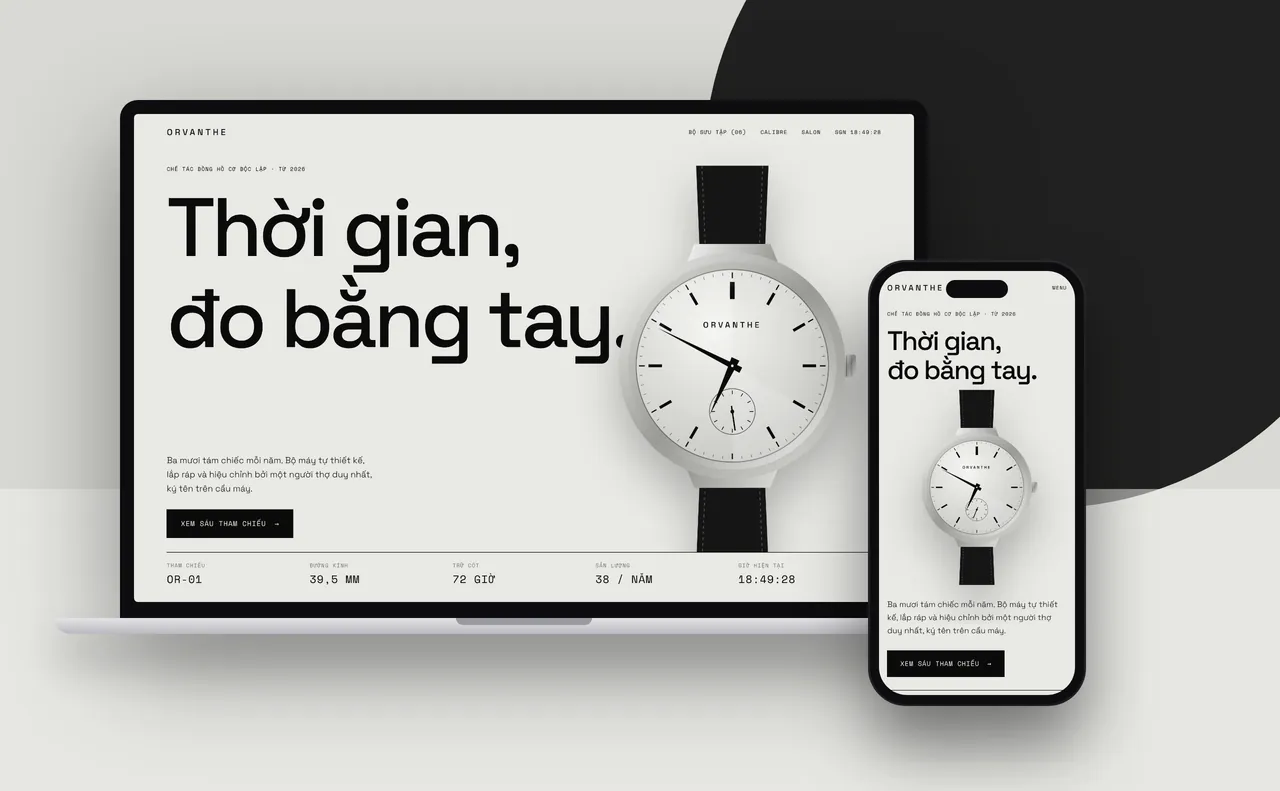
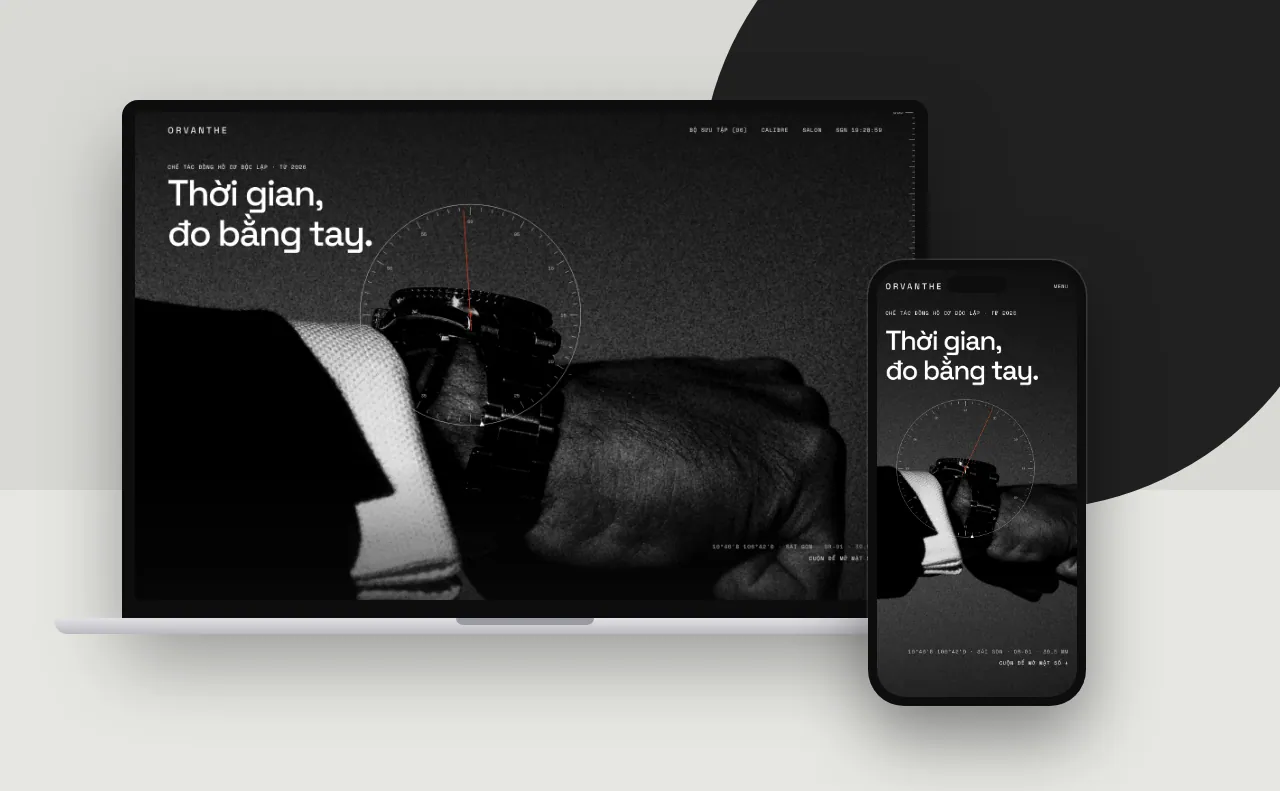
Demo Orvanthe: hero kim giây giờ thật, mặt nạ quét tròn, lookbook kính lúp
Claude-Session: https://claude.ai/code/session_012QLWn7rvRysGvRwdv6upwG

diff --git a/demos/lux-orvanthe.html b/demos/lux-orvanthe.html
@@ -43,12 +43,6 @@ input,select,textarea{font:inherit;color:inherit;border-radius:0}
 .toast.on{opacity:1;transform:translate(-50%,0)}
 .ph{position:relative;overflow:hidden;margin:0;background:var(--bg2)}
 .ph img{display:block;width:100%;height:100%;object-fit:cover;transition:transform 1796ms var(--ease),filter 1110ms var(--ease)}
-.pe{position:relative;overflow:hidden}.pe>.ph{position:absolute;inset:0}.pe>.ph img{position:absolute;left:0;top:-9%;height:118%}
-.pg-g{display:grid;grid-template-columns:repeat(4,1fr);grid-auto-rows:clamp(160px,19vw,300px);gap:10px}
-.pg-g .ph:first-child{grid-column:span 2;grid-row:span 2}.pg-4 .ph:nth-child(2){grid-column:span 2}
-.pg-g .ph:hover img{transform:scale(1.05)}
-.pg-g figcaption{position:absolute;left:0;right:0;bottom:0;padding:26px 16px 10px;font-size:13px;line-height:1.38;pointer-events:none}
-@media(max-width:700px){.pg-g{grid-template-columns:1fr 1fr;grid-auto-rows:clamp(150px,52vw,260px);gap:6px}.pg-g .ph:first-child{grid-row:span 1}.pg-4 .ph:nth-child(2){grid-column:span 1}.pg-4 .ph:last-child{grid-column:span 2}}
 .back{position:fixed;left:16px;bottom:16px;z-index:60;min-height:42px;padding:0 16px;display:flex;align-items:center;font-size:13px;letter-spacing:.04em}
 .fm{min-height:26px;font-size:13px}
 @media (prefers-reduced-motion:reduce){.js [data-r],.js [data-r=lines] .ln>span{opacity:1!important;transform:none!important;clip-path:none!important;transition:none!important}*,*::before,*::after{animation-duration:.01ms!important;animation-delay:0s!important;animation-iteration-count:1!important;transition-duration:.01ms!important;transition-delay:0s!important;scroll-behavior:auto!important}}
@@ -90,13 +84,32 @@ h2{font-size:clamp(42px,7.4vw,110px)}
 .gw{transform-box:fill-box;transform-origin:center;animation:sp 60s linear infinite}
 @keyframes sp{to{transform:rotate(360deg)}}
 /* hero */
-.hero{position:relative;min-height:100svh;padding:94px 0 0;display:flex;overflow:hidden}
-.hg{position:relative;display:grid;grid-template-rows:auto 1fr auto;gap:26px;width:100%}
+.hero{position:relative}
+.hc{position:sticky;top:0;height:100svh;overflow:hidden;background:var(--ink);color:#fff}
+.hc img{width:100%;height:100%;object-fit:cover;filter:contrast(1.08) brightness(.9);animation:kb 18s ease-in-out infinite alternate;transform-origin:var(--cx,50%) var(--cy,40%)}
+@keyframes kb{from{transform:scale(1.12)}}
+.off,.off *{animation-play-state:paused!important}
+.hc::after{content:"";position:absolute;inset:0;background:linear-gradient(180deg,rgba(11,11,11,.74),transparent 46%,transparent 72%,rgba(11,11,11,.6));pointer-events:none}
+.hr{--rd:min(70vw,62svh);position:absolute;z-index:1;left:var(--cx,50%);top:var(--cy,40%);width:var(--rd);height:var(--rd);margin:calc(var(--rd)/-2) 0 0 calc(var(--rd)/-2);will-change:transform}
+.hr svg{overflow:visible;fill:none;stroke:#fff;stroke-width:.3;animation:fu 1.8s .3s var(--ease) both}
+.hr text{fill:#fff;stroke:none;font:4px var(--fm);text-anchor:middle;opacity:.7}
+.hr .rs{stroke:var(--acc);stroke-width:.6}.hr .rm{fill:#fff}.hr g{transform-box:view-box;transform-origin:100px 100px}
+.hx{position:absolute;z-index:1;right:max(16px,4.2vw);bottom:68px;text-align:right;display:grid;gap:6px}
+.hk{min-height:1.618em;color:#b9b9b3}
+.hl{position:relative;z-index:2;background:var(--bg);display:flex;padding-top:94px;overflow:hidden}
+.hg{position:relative;display:grid;grid-template-rows:1fr auto;gap:26px;width:100%}
+.ht{position:absolute;inset:0 0 auto;z-index:2;padding-top:78px;pointer-events:none}.hl .ht{display:none}
 .hero h1{font-size:clamp(53px,10.6vw,178px);margin-top:16px}
-.hero h1 .ln>span{animation:ln 1.2s var(--ease) both}.hero h1 .ln+.ln>span{animation-delay:.1s}
+.hero h1 .ln>span{animation:ln 1.2s var(--ease) both;white-space:nowrap}.hero h1 .ln+.ln>span{animation-delay:.1s}
+.hero h1.sx .ln>span{animation:none}.sx i{display:inline-block;font-style:normal;white-space:pre;animation:ln .9s calc(.2s + var(--k)*45ms) var(--ease) both}
 @keyframes ln{from{transform:translateY(112%)}to{transform:none}}
 .hw{position:absolute;right:max(16px,5vw);top:46%;height:min(82vh,760px);transform:translateY(-50%);animation:wi 1.6s .2s var(--ease) both;filter:drop-shadow(0 42px 42px rgba(0,0,0,.26))}
 .hw>div{height:100%}
+@media(min-width:900px){.hl{min-height:100svh}html:not(.mo) .hero h1{font-size:clamp(53px,5.8vw,98px)}html:not(.mo) .hb{align-self:center}
+.ht{padding-top:94px}.hc img{object-position:50% 80%}.hr{--rd:46svh}
+.mo .hero{height:190svh}.mo .hs{position:sticky;top:0;height:100svh;overflow:hidden}.mo .hc,.mo .hl{position:absolute;inset:0}.mo .hl{clip-path:circle(0 at 43% 34%)}
+.mo .hl .ht{display:block}.mo .hero h1{transform:scale(.44);transform-origin:0 0;will-change:transform}
+.mo .hl:not(.go) :is(.hw,.hb){animation-play-state:paused}}
 @keyframes wi{from{clip-path:inset(0 0 100% 0)}to{clip-path:inset(-20%)}}
 .hb{align-self:end;max-width:24em;display:grid;gap:26px;justify-items:start;animation:fu 1.2s .5s var(--ease) both}
 @keyframes fu{from{opacity:0;transform:translateY(16px)}to{opacity:1;transform:none}}
@@ -104,7 +117,7 @@ h2{font-size:clamp(42px,7.4vw,110px)}
 .sp div{padding:10px 0 16px;border-bottom:1px solid var(--line)}
 .sp dt{color:var(--mut)}.sp dd{font-weight:500;font-size:16px}
 @media(min-width:900px){.sp{grid-template-columns:repeat(5,1fr)}.sp div{border-bottom:0;padding:16px 0 26px}.sp dd{font-size:20px}}
-@media(max-width:899px){.hero{padding-top:78px}.hg{grid-template-rows:auto}.hw{position:relative;right:auto;top:auto;transform:none;height:46vh;min-height:320px;justify-self:center;margin:-16px 0 0}.hb{max-width:none}}
+@media(max-width:899px){.hc img{object-position:40% 50%}.hl{padding-top:42px}.hg{grid-template-rows:auto}.hw{position:relative;right:auto;top:auto;transform:none;height:46vh;min-height:320px;justify-self:center;margin:-16px 0 0}.hb{max-width:none}}
 /* con số */
 .ng{display:grid;grid-template-columns:1fr 1fr;gap:42px 16px}
 @media(min-width:900px){.ng{grid-template-columns:repeat(4,1fr)}}
@@ -119,7 +132,6 @@ h2{font-size:clamp(42px,7.4vw,110px)}
 .mv .jw{fill:var(--acc)}.mv text{font:8px var(--fm);fill:var(--bg);opacity:.6;letter-spacing:1px}
 .mv .bl{animation:bl .62s ease-in-out infinite alternate}@keyframes bl{from{transform:rotate(-124deg)}to{transform:rotate(124deg)}}
 .mv .es{animation:sp 7.5s steps(30) infinite}
-.mv.off .gw{animation-play-state:paused}
 .cg h2{font-size:clamp(42px,5vw,68px);margin:16px 0 26px}
 .cg p.t{color:var(--mut);max-width:30em}
 .dl{margin-top:26px;border-top:1px solid var(--line)}
@@ -193,26 +205,42 @@ footer{padding:68px 0 110px;overflow:hidden}
 .toast{background:var(--acc);color:#fff;font-family:var(--fm)}
 .back{background:var(--ink);color:var(--bg);font-family:var(--fm);font-size:10px;text-transform:uppercase}
 /*PH-CSS*/
-.pe{height:clamp(520px,100svh,980px);display:grid;align-items:end;background:var(--ink);color:var(--bg)}
-.pe>.ph{background:var(--ink)}
-.pe>.ph img{object-position:50% 56%;filter:grayscale(1) contrast(1.12) brightness(.9)}
-.pe::after{content:"";position:absolute;inset:0;background:linear-gradient(90deg,rgba(11,11,11,.86),rgba(11,11,11,.2) 61.8%,transparent);pointer-events:none}
+.pe{background:var(--ink);color:var(--bg)}
+.fr{position:relative;isolation:isolate;margin:0;height:max(520px,78svh);overflow:hidden;display:grid;align-items:end}
+.fr img{position:absolute;inset:0;width:100%;height:100%;object-fit:cover;filter:grayscale(1) contrast(1.1) brightness(.78);will-change:transform}
+.fr::after{content:"";position:absolute;inset:0;background:linear-gradient(90deg,rgba(11,11,11,.9),rgba(11,11,11,.3) 50%,transparent 72%);pointer-events:none}
 .pe-t{position:relative;z-index:2;padding-bottom:68px}
 .pe-b{font-weight:500;letter-spacing:-.045em;line-height:1.1;font-size:clamp(53px,8.4vw,128px);margin:16px 0 26px}
 .pe-c{max-width:24em;color:#a9a9a3}
-@media(max-width:700px){.pe{align-items:start;height:clamp(560px,100svh,760px)}.pe-t{padding:68px 16px 0}.pe-b{font-size:42px}.pe::after{background:linear-gradient(180deg,rgba(11,11,11,.92),rgba(11,11,11,.3) 50%,transparent 70%)}.pe>.ph img{object-position:30% 60%}}
+.tp{align-items:start}.tp::after{background:linear-gradient(180deg,rgba(11,11,11,.9),rgba(11,11,11,.35) 42%,transparent 66%)}.tp img{object-position:50% 0}.tp .pe-t{padding-top:110px;padding-bottom:0}.tp .pe-b{font-size:clamp(42px,6vw,92px)}
+.co{position:absolute;z-index:2;font-style:normal;white-space:nowrap;padding-bottom:6px;transform:translateY(-100%)}
+.js .co{opacity:0;transition:opacity .7s .5s}.js .co::before,.js .co::after{transform:scale(0)}
+.co::before{content:"";position:absolute;left:0;right:0;bottom:0;height:1px;background:currentColor;transform-origin:0;transition:transform 1.3s .3s var(--ease)}
+.co::after{content:"";position:absolute;right:-4px;bottom:-4px;width:9px;height:9px;border-radius:50%;background:var(--acc);transition:transform .6s 1.3s var(--ease)}
+.js .on .co{opacity:1}.js .on .co::before,.js .on .co::after{transform:none}
+.sw{display:none}
+.mo .pe{height:300svh}.mo .pe-s{position:sticky;top:0;height:100svh;overflow:hidden}.mo .fr{position:absolute;inset:0;height:auto}.mo .fr+.fr{clip-path:polygon(50% 50%,50% 50%,50% 50%)}
+.mo .sw{display:block;position:absolute;z-index:5;left:50%;top:50%;width:1px;height:150vmax;margin-top:-150vmax;background:var(--acc);transform-origin:50% 100%;opacity:0}
+@media(max-width:899px){.fr::after{background:linear-gradient(0deg,rgba(11,11,11,.94),rgba(11,11,11,.4) 46%,transparent 70%)}.fr img{object-position:var(--op) 50%}.pe-t{padding-bottom:94px}.pe-b,.tp .pe-b{font-size:42px;margin:10px 0 16px}.tp .pe-t{padding-top:78px}.tp::after{background:linear-gradient(180deg,rgba(11,11,11,.9),rgba(11,11,11,.35) 42%,transparent 66%)}}
 .pg{border-top:1px solid var(--ink)}
-.pg-g.pg-2{grid-template-columns:61.8fr 38.2fr;grid-auto-rows:clamp(320px,46vw,640px);gap:6px}
-.pg-2 .ph:first-child{grid-column:auto;grid-row:auto}
-.pg-g img{filter:grayscale(1) contrast(1.08)}
-.pg-g .ph:hover img,.pg-g .ph:focus-within img,.pg-g .ph.c img{filter:none}
-.pg-g figcaption{font-family:var(--fm);font-size:10px;letter-spacing:.1em;text-transform:uppercase;color:#fff;mix-blend-mode:difference}
-@media(max-width:700px){.pg-g.pg-2{grid-template-columns:1fr;grid-auto-rows:clamp(300px,110vw,460px)}}
+.pg-g{display:grid;grid-template-columns:61.8fr 38.2fr;grid-auto-rows:clamp(320px,46vw,640px);gap:6px}
+.pg-g img{filter:grayscale(1) contrast(1.08)}.pg-g .c img{filter:none}
+.pg-g figcaption{position:absolute;left:0;right:0;bottom:0;padding:26px 16px 10px;pointer-events:none;font-family:var(--fm);font-size:10px;letter-spacing:.1em;text-transform:uppercase;color:#fff;mix-blend-mode:difference}
+.lz{position:absolute;z-index:2;left:0;top:0;width:236px;height:236px;border-radius:50%;overflow:hidden;opacity:0;transition:opacity 424ms;pointer-events:none;box-shadow:0 0 0 1px #fff,0 16px 42px rgba(0,0,0,.42);will-change:transform}
+.lz img{position:absolute;left:0;top:0;max-width:none;filter:none;transition:none;will-change:transform}
+.lz::after{content:"";position:absolute;inset:0;border-radius:50%;background:repeating-conic-gradient(#fff 0 .7deg,transparent 0 6deg);-webkit-mask:radial-gradient(closest-side,transparent 93%,#000 94%);mask:radial-gradient(closest-side,transparent 93%,#000 94%)}
+.ph:hover .lz{opacity:1}
+@media(max-width:700px){.pg-g{display:flex;overflow-x:auto;scroll-snap-type:x mandatory;margin:0 -16px;padding:0 16px;scroll-padding:0 16px;scrollbar-width:none}.pg-g::-webkit-scrollbar{display:none}.pg-g .ph{flex:0 0 82%;height:110vw;scroll-snap-align:start}.pg-g .c img{transform:scale(1.2)}}
+.js .sh{position:relative;border-color:transparent}.js .sh::after{content:"";position:absolute;left:0;right:0;bottom:-1px;height:1px;background:var(--line);transform:scaleX(0);transform-origin:0;transition:transform 1.6s var(--ease)}.js .sh.in::after{transform:none}
+.rl{position:fixed;right:0;top:0;bottom:0;width:26px;z-index:40;pointer-events:none;mix-blend-mode:difference;color:#fff;opacity:.7;background:repeating-linear-gradient(#fff 0 1px,transparent 0 10px) right/5px 100% no-repeat,repeating-linear-gradient(#fff 0 1px,transparent 0 50px) right/11px 100% no-repeat}
+.rl i{position:absolute;right:0;top:0;width:18px;height:1px;background:#fff;font:400 10px/1 var(--fm);will-change:transform}
+.rl i::before{content:attr(data-v);position:absolute;right:22px;top:-5px}
+@media(max-width:899px),(hover:none){.rl{display:none}}
 /*/PH-CSS*/
 </style>
 </head>
 <body>
-<script>document.documentElement.classList.add('js')</script>
+<script>(c=>{c.add('js');matchMedia('(prefers-reduced-motion:reduce)').matches||c.add('mo')})(document.documentElement.classList)</script>
 <div class="cur" aria-hidden="true"><i></i></div>
 <header class="hd"><div class="w">
  <a class="lg" href="#top" aria-label="Orvanthe — về đầu trang">ORVANTHE</a>
@@ -222,17 +250,26 @@ footer{padding:68px 0 110px;overflow:hidden}
 <div class="mn" id="mn"><a href="#bo-suu-tap">Bộ sưu tập<span>01</span></a><a href="#calibre">Calibre<span>02</span></a><a href="#salon">Salon<span>03</span></a></div>
 
 <main>
-<section class="hero" id="top"><div class="w hg">
- <div><p class="m">Chế tác đồng hồ cơ độc lập · Từ 2026</p>
-  <h1><span class="ln"><span>Thời gian,</span></span><span class="ln"><span>đo bằng tay.</span></span></h1></div>
- <div class="hw"><div id="hw" data-px=".04"></div></div>
- <div class="hb"><p>Ba mươi tám chiếc mỗi năm. Bộ máy tự thiết kế, lắp ráp và hiệu chỉnh bởi một người thợ duy nhất, ký tên trên cầu máy.</p><a class="bt" href="#bo-suu-tap">Xem sáu tham chiếu <span>→</span></a></div>
- <dl class="sp m"><div><dt>Tham chiếu</dt><dd>OR-01</dd></div><div><dt>Đường kính</dt><dd>39,5 mm</dd></div><div><dt>Trữ cót</dt><dd>72 giờ</dd></div><div><dt>Sản lượng</dt><dd>38 / năm</dd></div><div><dt>Giờ hiện tại</dt><dd id="ck2">00:00:00</dd></div></dl>
+<section class="hero" id="top"><div class="hs">
+ <div class="hc"><picture><source media="(max-width:899px)" srcset="../img/photo/dong-ho-31670047.webp" width="1067" height="1600"><img id="hi" src="../img/photo/dong-ho-31670047-xl.webp" width="2200" height="1650" alt="Ảnh đen trắng một bàn tay nắm lại, cổ tay đeo đồng hồ dây kim loại, tay áo vest và măng sét trắng" fetchpriority="high" decoding="async" data-p=".43,.48" data-pm=".43,.46"></picture>
+  <div class="hr" id="hr" aria-hidden="true"></div>
+  <div class="ht w"><p class="m">Chế tác đồng hồ cơ độc lập · Từ 2026</p>
+  <h1 aria-label="Thời gian, đo bằng tay."><span class="ln"><span>Thời gian,</span></span><span class="ln"><span>đo bằng tay.</span></span></h1></div>
+  <div class="hx m"><p class="hk" id="hk" aria-hidden="true"></p><p>Cuộn để mở mặt số ↓</p></div></div>
+ <div class="hl"><div class="w hg">
+  <div class="hw"><div id="hw" data-px=".04"></div></div>
+  <div class="hb"><p>Ba mươi tám chiếc mỗi năm. Bộ máy tự thiết kế, lắp ráp và hiệu chỉnh bởi một người thợ duy nhất, ký tên trên cầu máy.</p><a class="bt" href="#bo-suu-tap">Xem sáu tham chiếu <span>→</span></a></div>
+  <dl class="sp m"><div><dt>Tham chiếu</dt><dd>OR-01</dd></div><div><dt>Đường kính</dt><dd>39,5 mm</dd></div><div><dt>Trữ cót</dt><dd>72 giờ</dd></div><div><dt>Sản lượng</dt><dd>38 / năm</dd></div><div><dt>Giờ hiện tại</dt><dd id="ck2">00:00:00</dd></div></dl>
+ </div></div>
 </div></section>
 
 
 <!--PH-ED-->
-<section class="pe" aria-label="Ảnh không khí của nhà Orvanthe"><figure class="ph" data-r="mask"><img src="../img/photo/dong-ho-31670047.webp" width="1067" height="1600" alt="Ảnh đen trắng một bàn tay nắm lại, cổ tay đeo đồng hồ dây kim loại, tay áo vest và măng sét trắng" decoding="async" loading="lazy" data-px=".12"></figure><div class="pe-t w"><p class="m" data-r>(00) Cổ tay</p><p class="pe-b" data-r="lines"><span class="ln"><span>Đeo hằng ngày.</span></span><span class="ln" style="--j:1"><span>Truyền ba đời.</span></span></p><p class="pe-c" data-r>Vỏ thép đánh xước tay, kính sapphire, bảo dưỡng trọn đời tại salon.</p></div></section>
+<section class="pe" aria-label="Ảnh không khí của nhà Orvanthe"><div class="pe-s">
+<figure class="fr"><img src="../img/photo/dong-ho-38827919-xl.webp" width="2000" height="1476" alt="Cận cảnh đồng hồ thép mặt chữ nhật đặt trên mặt gương, in bóng phản chiếu bên dưới" decoding="async" loading="lazy" data-p=".64,.4" style="--op:79%"><i class="co m">A · Cạnh vát tay</i><figcaption class="pe-t w"><p class="m">(00) Mặt số · 01 / 03</p><p class="pe-b"><span data-n="45">45</span>°</p><p class="pe-c">Mọi cạnh thép được vát tay rồi đánh bóng gương, kể cả những mặt không ai nhìn thấy.</p></figcaption></figure>
+<figure class="fr"><img src="../img/photo/dong-ho-35472149-xl.webp" width="2000" height="1250" alt="Hai bàn tay đan vào nhau trên nền áo sọc tối, một cổ tay đeo đồng hồ thép mặt tròn" decoding="async" loading="lazy" data-p=".69,.33" style="--op:77%"><i class="co m">B · Nhịp bánh lắc</i><figcaption class="pe-t w"><p class="m">(00) Nhịp đập · 02 / 03</p><p class="pe-b"><span data-n="21600">21.600</span></p><p class="pe-c">dao động mỗi giờ. Bánh lắc chia một giây thành sáu nhịp đều nhau.</p></figcaption></figure>
+<figure class="fr tp" data-z="1.25"><img src="../img/photo/dong-ho-31670047-xl.webp" width="2200" height="1650" alt="Cận cảnh đen trắng cổ tay đeo đồng hồ dây kim loại bên măng sét trắng" decoding="async" loading="lazy" data-p=".43,.48" style="--op:50%"><i class="co m">C · Vành thép 39,5 mm</i><figcaption class="pe-t w"><p class="m">(00) Cổ tay · 03 / 03</p><p class="pe-b"><span class="ln"><span>Đeo hằng ngày.</span></span><span class="ln"><span>Truyền ba đời.</span></span></p><p class="pe-c">Vỏ thép đánh xước tay, kính sapphire, bảo dưỡng trọn đời tại salon.</p></figcaption></figure>
+<i class="sw" aria-hidden="true"></i></div></section>
 <!--/PH-ED-->
 
 <section class="sec"><div class="w">
@@ -271,7 +308,7 @@ footer{padding:68px 0 110px;overflow:hidden}
 
 
 <!--PH-LB-->
-<section class="sec pg" id="tren-co-tay"><div class="w"><div class="sh m"><span>(03b) Trên cổ tay</span><span>Rê chuột hoặc chạm để xem màu</span></div><div class="pg-g pg-2"><figure class="ph" data-r="mask" style="--i:0"><img src="../img/photo/dong-ho-35472149.webp" width="1280" height="1600" alt="Hai bàn tay đan vào nhau trên nền áo sọc tối, một cổ tay đeo đồng hồ mặt xanh, cổ tay kia đeo vòng bạc" decoding="async" loading="lazy"><figcaption>(A) Mặt xanh, áo sọc</figcaption></figure><figure class="ph" data-r="mask" style="--i:1"><img src="../img/photo/dong-ho-38827919.webp" width="1084" height="1600" alt="Đồng hồ nữ mặt chữ nhật dây kim loại đặt trên mặt bàn trắng, in bóng phản chiếu" decoding="async" loading="lazy"><figcaption>(B) Mặt chữ nhật, bàn trắng</figcaption></figure></div></div></section>
+<section class="sec pg" id="tren-co-tay"><div class="w"><div class="sh m"><span>(03b) Trên cổ tay</span><span>Rê chuột để soi · chạm để xem màu</span></div><div class="pg-g pg-2"><figure class="ph" data-r="mask" style="--i:0"><img src="../img/sm-web-ph-dong-ho-35472149.webp" width="1280" height="1600" alt="Hai bàn tay đan vào nhau trên nền áo sọc tối, một cổ tay đeo đồng hồ mặt xanh, cổ tay kia đeo vòng bạc" decoding="async" loading="lazy"><figcaption>(A) Mặt xanh, áo sọc</figcaption></figure><figure class="ph" data-r="mask" style="--i:1"><img src="../img/photo/dong-ho-38827919.webp" width="1084" height="1600" alt="Đồng hồ nữ mặt chữ nhật dây kim loại đặt trên mặt bàn trắng, in bóng phản chiếu" decoding="async" loading="lazy"><figcaption>(B) Mặt chữ nhật, bàn trắng</figcaption></figure></div></div></section>
 <!--/PH-LB-->
 
 <section class="sec" id="salon" style="border-top:1px solid var(--ink)"><div class="w">
@@ -301,6 +338,7 @@ footer{padding:68px 0 110px;overflow:hidden}
 
 <div class="qv" id="qv" aria-hidden="true"><div class="qv-bg" data-x></div><div class="qv-p" role="dialog" aria-modal="true" aria-label="Thông số tham chiếu"><button class="qv-x" data-x aria-label="Đóng">×</button><div id="qvc"></div></div></div>
 <div class="toast" role="status"></div>
+<div class="rl" aria-hidden="true"><i data-v="000"></i></div>
 <a class="back" href="../index.html" target="_top">← Dream Labs</a>
 
 <script src="../vendor/lenis.min.js"></script>
@@ -385,12 +423,51 @@ const watch=(w,si)=>{const u='w'+(uid++),M=MET[w.m],n=parseInt(w.dl.slice(1,3),1
 /* giờ thật */
 const pad=n=>String(n).padStart(2,'0');let live=[];
 const tick=()=>{const d=new Date(),s=d.getSeconds()+(RM?0:d.getMilliseconds()/1e3),m=d.getMinutes()+s/60,h=d.getHours()%12+m/60,t=pad(d.getHours())+':'+pad(d.getMinutes())+':'+pad(d.getSeconds());
- $('#ck').textContent='SGN '+t;$('#ck2').textContent=t;
- live.forEach(e=>{if(!e.isConnected)return;const R=(c,a)=>{const x=$(c,e);if(x)x.style.transform='rotate('+a.toFixed(2)+'deg)'};R('.hh',h*30);R('.hm',m*6);R('.hs',s*6);R('.hg',(d.getHours()+m/60)*15)})};
+ if(t!==tick.t){tick.t=t;$('#ck').textContent='SGN '+t;$('#ck2').textContent=t}
+ if(hc._v!==0){RS.style.transform='rotate('+(s*6).toFixed(2)+'deg)';RN.style.transform='rotate('+(m*6).toFixed(2)+'deg)'}
+ live.forEach(e=>{if(!e.isConnected||e._v===0)return;const R=(c,a)=>{const x=$(c,e);if(x)x.style.transform='rotate('+a.toFixed(2)+'deg)'};R('.hh',h*30);R('.hm',m*6);R('.hs',s*6);R('.hg',(d.getHours()+m/60)*15)})};
 const setLive=()=>{live=$$('#hw,#sa,#qvc .qa')};
 $('#hw').innerHTML=watch(W[0],0);
+/* hero: vành phút + mống mắt mở mặt số */
+const cl=v=>v<0?0:v>1?1:v,MO=!RM,MQ=matchMedia('(min-width:900px)'),hero=$('.hero'),hc=$('.hc'),hl=$('.hl'),hr=$('#hr'),hx=$('.hx'),hi=$('#hi');
+{let d='',n='';for(let i=0;i<60;i++){const a=i/60*TAU,c=Math.sin(a),s=-Math.cos(a),b=i%5?92.5:89;d+=`M${(100+96*c).toFixed(1)} ${(100+96*s).toFixed(1)}L${(100+b*c).toFixed(1)} ${(100+b*s).toFixed(1)}`;if(i%5<1)n+=`<text x="${(100+83*c).toFixed(1)}" y="${(101.5+83*s).toFixed(1)}">${pad(i||60)}</text>`}
+hr.innerHTML=`<svg viewBox="0 0 200 200"><circle cx="100" cy="100" r="98.5"/><path d="${d}"/>${n}<g class="rm"><path d="M100 4.5l-2-4h4z"/></g><g class="rs"><path d="M100 114V7"/><circle cx="100" cy="100" r="1.4"/></g></svg>`}
+const RS=$('.rs',hr),RN=$('.rm',hr);
+const cpt=(im,k)=>{const w=im.offsetWidth,h=im.offsetHeight,nw=im.naturalWidth||+im.getAttribute('width'),nh=im.naturalHeight||+im.getAttribute('height'),[u,v]=(k||im.dataset.p).split(',').map(Number),o=getComputedStyle(im).objectPosition.split(' ').map(parseFloat),s=Math.max(w/nw,h/nh);return[(w-nw*s)*o[0]/100+u*nw*s,(h-nh*s)*o[1]/100+v*nh*s]};
+let hm={};
+const hset=()=>{const p=cpt(hi,MQ.matches?0:hi.dataset.pm),vw=hc.offsetWidth,vh=hc.offsetHeight;hc.style.setProperty('--cx',p[0].toFixed(1)+'px');hc.style.setProperty('--cy',p[1].toFixed(1)+'px');
+ hm={x:p[0].toFixed(1),y:p[1].toFixed(1),R:Math.hypot(Math.max(p[0],vw-p[0]),Math.max(p[1],vh-p[1]))+2,ri:hr.offsetWidth*.44}};
+const hrun=()=>{hc.classList.toggle('off',scrollY>=hero.offsetHeight-innerHeight);
+ if(!MO||!MQ.matches){if(hm.on){hm.on=0;hl.style.clipPath=hr.style.transform=hx.style.opacity='';HH.forEach(h=>h.style.transform='')}return}
+ const p=cl(scrollY/(hero.offsetHeight-innerHeight)),r=hm.R*Math.pow(p,1.8),q=cl((p-.06)/.62),e=q*q*(3-2*q);hm.on=1;
+ hl.style.clipPath=p<1?`circle(${r.toFixed(1)}px at ${hm.x}px ${hm.y}px)`:'none';
+ hr.style.transform=`scale(${Math.max(1,r/hm.ri).toFixed(3)})`;
+ HH.forEach(h=>h.style.transform=`scale(${(.44+.56*e).toFixed(4)})`);
+ hx.style.opacity=1-cl(p*5);p>.3&&hl.classList.add('go')};
+let HH;{const h1=$('.hero h1'),hk=$('#hk'),T='10°46′B 106°42′Đ · SÀI GÒN · OR-01 · 39,5 MM';let k=0;
+ $$('.ln>span',h1).forEach(s=>s.innerHTML=[...s.textContent].map(c=>`<i style="--k:${k++}">${c}</i>`).join(''));h1.classList.add('sx');hl.append($('.ht').cloneNode(true));hl.lastChild.setAttribute('aria-hidden',true);HH=$$('.hero h1');
+ if(RM)hk.textContent=T;else{let i=0;const ty=setInterval(()=>{hk.textContent=T.slice(0,++i)+(i<T.length?'▮':'');i<T.length||clearInterval(ty)},48)}}
+/* cảnh ghim: kim quét đổi ảnh */
+const pe=$('.pe'),FR=$$('.fr').map(f=>({f,im:$('img',f),c:$('.co',f),t:$('.pe-t',f),z:+f.dataset.z||1})),swh=$('.sw'),S0=[0,.12,.54];
+const sw=(a,w,h)=>{const R=Math.hypot(w,h);let s='50% 50%';for(let t=0;t<=a;t=t<a&&t+45>a?a:t+45){const b=t*Math.PI/180;s+=`,${(w/2+R*Math.sin(b)).toFixed(1)}px ${(h/2-R*Math.cos(b)).toFixed(1)}px`}return`polygon(${s})`};
+const fon=o=>{if(!o.on){o.on=1;o.f.classList.add('on');cnt($('[data-n]',o.f))}};
+const fset=()=>FR.forEach(o=>{const p=cpt(o.im),x0=Math.max(o.t.offsetLeft+parseFloat(getComputedStyle(o.t).paddingLeft),p[0]-Math.max(170,o.f.offsetWidth*.3));o.im.style.transformOrigin=p[0].toFixed(1)+'px '+p[1].toFixed(1)+'px';o.c.style.cssText=`left:${x0}px;top:${p[1].toFixed(1)}px;width:${Math.max(96,p[0]-x0).toFixed(1)}px`;if(!MO){o.im.style.transform=`scale(${o.z})`;fon(o)}});
+const frun=()=>{const r=pe.getBoundingClientRect(),vh=innerHeight;if(!MO||r.bottom<0||r.top>vh)return;
+ const P=cl(-r.top/(r.height-vh));let hd=0;
+ FR.forEach((o,i)=>{const a=i?cl((P-S0[i])/.3):1,e=a*a*(3-2*a)*360,l=cl(i?(P-S0[i])/.46:(vh-r.top)/vh/1.6);
+  if(i&&e!==o.e){o.e=e;o.f.style.clipPath=e<360?sw(e,r.width,vh):'none'}
+  o.im.style.transform=`scale(${(o.z*(1.14-.14*l)).toFixed(4)})`;
+  if(i&&e>0&&e<360){hd=1;swh.style.transform=`rotate(${e.toFixed(2)}deg)`}
+  if(i?e>170:r.top<vh*.4)fon(o)});
+ swh.style.opacity=hd};
+/* thước cuộn */
+const rli=$('.rl i');let st=0;
+const srun=()=>{st=0;hrun();frun();const p=cl(scrollY/(H.scrollHeight-innerHeight));rli.style.transform=`translateY(${(p*(innerHeight-1)).toFixed(1)}px)`;rli.dataset.v=String(Math.round(p*100)).padStart(3,'0')};
+const sset=()=>{hset();fset();srun()};
+addEventListener('scroll',()=>{st||(st=requestAnimationFrame(srun))},{passive:true});addEventListener('resize',sset);addEventListener('load',sset);hi.addEventListener('load',sset);
 /* đếm số */
-if(!RM&&'IntersectionObserver' in window){const no=new IntersectionObserver(es=>es.forEach(e=>{if(!e.isIntersecting)return;no.unobserve(e.target);const el=e.target,n=+el.dataset.n,t0=performance.now();(function f(t){const k=Math.min(1,(t-t0)/1796),v=1-Math.pow(1-k,4);el.textContent=Math.round(n*v);k<1&&requestAnimationFrame(f)})(t0)}),{threshold:.5});$$('[data-n]').forEach(e=>no.observe(e))}
+const cnt=el=>{if(RM||!el)return;const n=+el.dataset.n,t0=performance.now();(function f(t){const k=Math.min(1,(t-t0)/1796),v=1-Math.pow(1-k,4);el.textContent=Math.round(n*v).toLocaleString('vi-VN');k<1&&requestAnimationFrame(f)})(t0)};
+if(!RM&&'IntersectionObserver' in window){const no=new IntersectionObserver(es=>es.forEach(e=>{if(e.isIntersecting){no.unobserve(e.target);cnt(e.target)}}),{threshold:.5});$$('.ng b').forEach(e=>no.observe(e))}
 /* sơ đồ máy */
 const gear=(r,n)=>{let d='';for(let i=0;i<n;i++){const a=i/n*TAU,b=TAU/n,p=(q,t)=>(q*Math.cos(a+b*t)).toFixed(1)+' '+(q*Math.sin(a+b*t)).toFixed(1);d+=(i?'L':'M')+p(r-5,0)+'L'+p(r,.2)+'L'+p(r,.44)+'L'+p(r-5,.64)}return d+'z'};
 const G=[[140,150,78,60,68,0,'Ổ CÓT'],[242,221,46,36,40.8,1,''],[228,300,34,26,29.5,0,''],[171,290,24,18,20.4,1,''],[137,263,18,15,0,0,'']];
@@ -400,7 +477,7 @@ const mv=$('#mv');mv.innerHTML=`<svg viewBox="0 0 400 400"><circle class="t" cx=
  <g transform="translate(92 318)"><g class="gw bl"><circle r="43" fill="none"/><circle class="l" r="40" style="stroke-width:3"/><path class="l" d="M-40 0H40M0-40V40"/><path class="t" d="M0 0a4 4 0 0 1 8 0a8 8 0 0 1-16 0a12 12 0 0 1 24 0a16 16 0 0 1-32 0a20 20 0 0 1 40 0" style="opacity:1"/></g><circle class="jw" r="3.4"/></g>
  <path class="t" d="M140 150L20 96M92 318L20 380M242 221L384 190"/><text x="14" y="90">Ổ CÓT · 72 H</text><text x="14" y="394">BÁNH LẮC · 3 HZ</text><text x="300" y="184">BÁNH TRUNG TÂM</text>
  ${[[60,200],[340,200],[200,48],[300,340]].map(p=>`<circle class="l" cx="${p[0]}" cy="${p[1]}" r="7"/><path class="l" d="M${p[0]-5} ${p[1]-5}l10 10"/>`).join('')}</svg>`;
-if('IntersectionObserver' in window)new IntersectionObserver(e=>mv.classList.toggle('off',!e[0].isIntersecting)).observe(mv);
+if('IntersectionObserver' in window){const vo=new IntersectionObserver(es=>es.forEach(e=>{e.target._v=+e.isIntersecting;e.target.classList.toggle('off',!e.isIntersecting)}));[mv,hc,$('#hw'),$('#sa')].forEach(e=>vo.observe(e))}
 /* bộ sưu tập */
 const gr=$('#gr'),fl=$('#fl'),sa=$('#sa'),vr=$('#vr');let ci=0,cs=0;
 const F=['Tất cả',...new Set(W.map(w=>w.g))];
@@ -425,8 +502,13 @@ $('#qvo').addEventListener('click',()=>{const w=W[ci];
 $('#fs').insertAdjacentHTML('beforeend',W.map(w=>`<option>${w.r} ${w.n}</option>`).join(''));
 setLive();tick();
 if(RM)setInterval(tick,1000);else{let last=0;(function f(t){if(t-last>48&&!D.hidden){last=t;tick()}requestAnimationFrame(f)})(0)}
-$$('.pg-g .ph').forEach(f=>{f.tabIndex=0;f.addEventListener('click',()=>f.classList.toggle('c'))});
-scan();
+$$('.sh').forEach(e=>e.dataset.r='fade');
+/* kính lúp */
+$$('.pg-g .ph').forEach(f=>{f.tabIndex=0;f.addEventListener('click',()=>f.classList.toggle('c'));if(!FINE)return;
+ const im=$('img',f);f.dataset.c='Soi';let r,l,li;
+ f.addEventListener('mouseenter',()=>{r=f.getBoundingClientRect();if(!l){l=D.createElement('div');li=new Image;l.className='lz';li.alt='';li.src=im.currentSrc||im.src;l.append(li);f.append(l)}li.style.cssText=`width:${r.width*2}px;height:${r.height*2}px`});
+ f.addEventListener('mousemove',e=>{if(!l)return;r=f.getBoundingClientRect();const x=e.clientX-r.left,y=e.clientY-r.top;l.style.transform=`translate3d(${(x-118).toFixed(1)}px,${(y-118).toFixed(1)}px,0)`;li.style.transform=`translate3d(${(118-2*x).toFixed(1)}px,${(118-2*y).toFixed(1)}px,0)`})});
+sset();scan();
 })();
 </script>
 </body>
